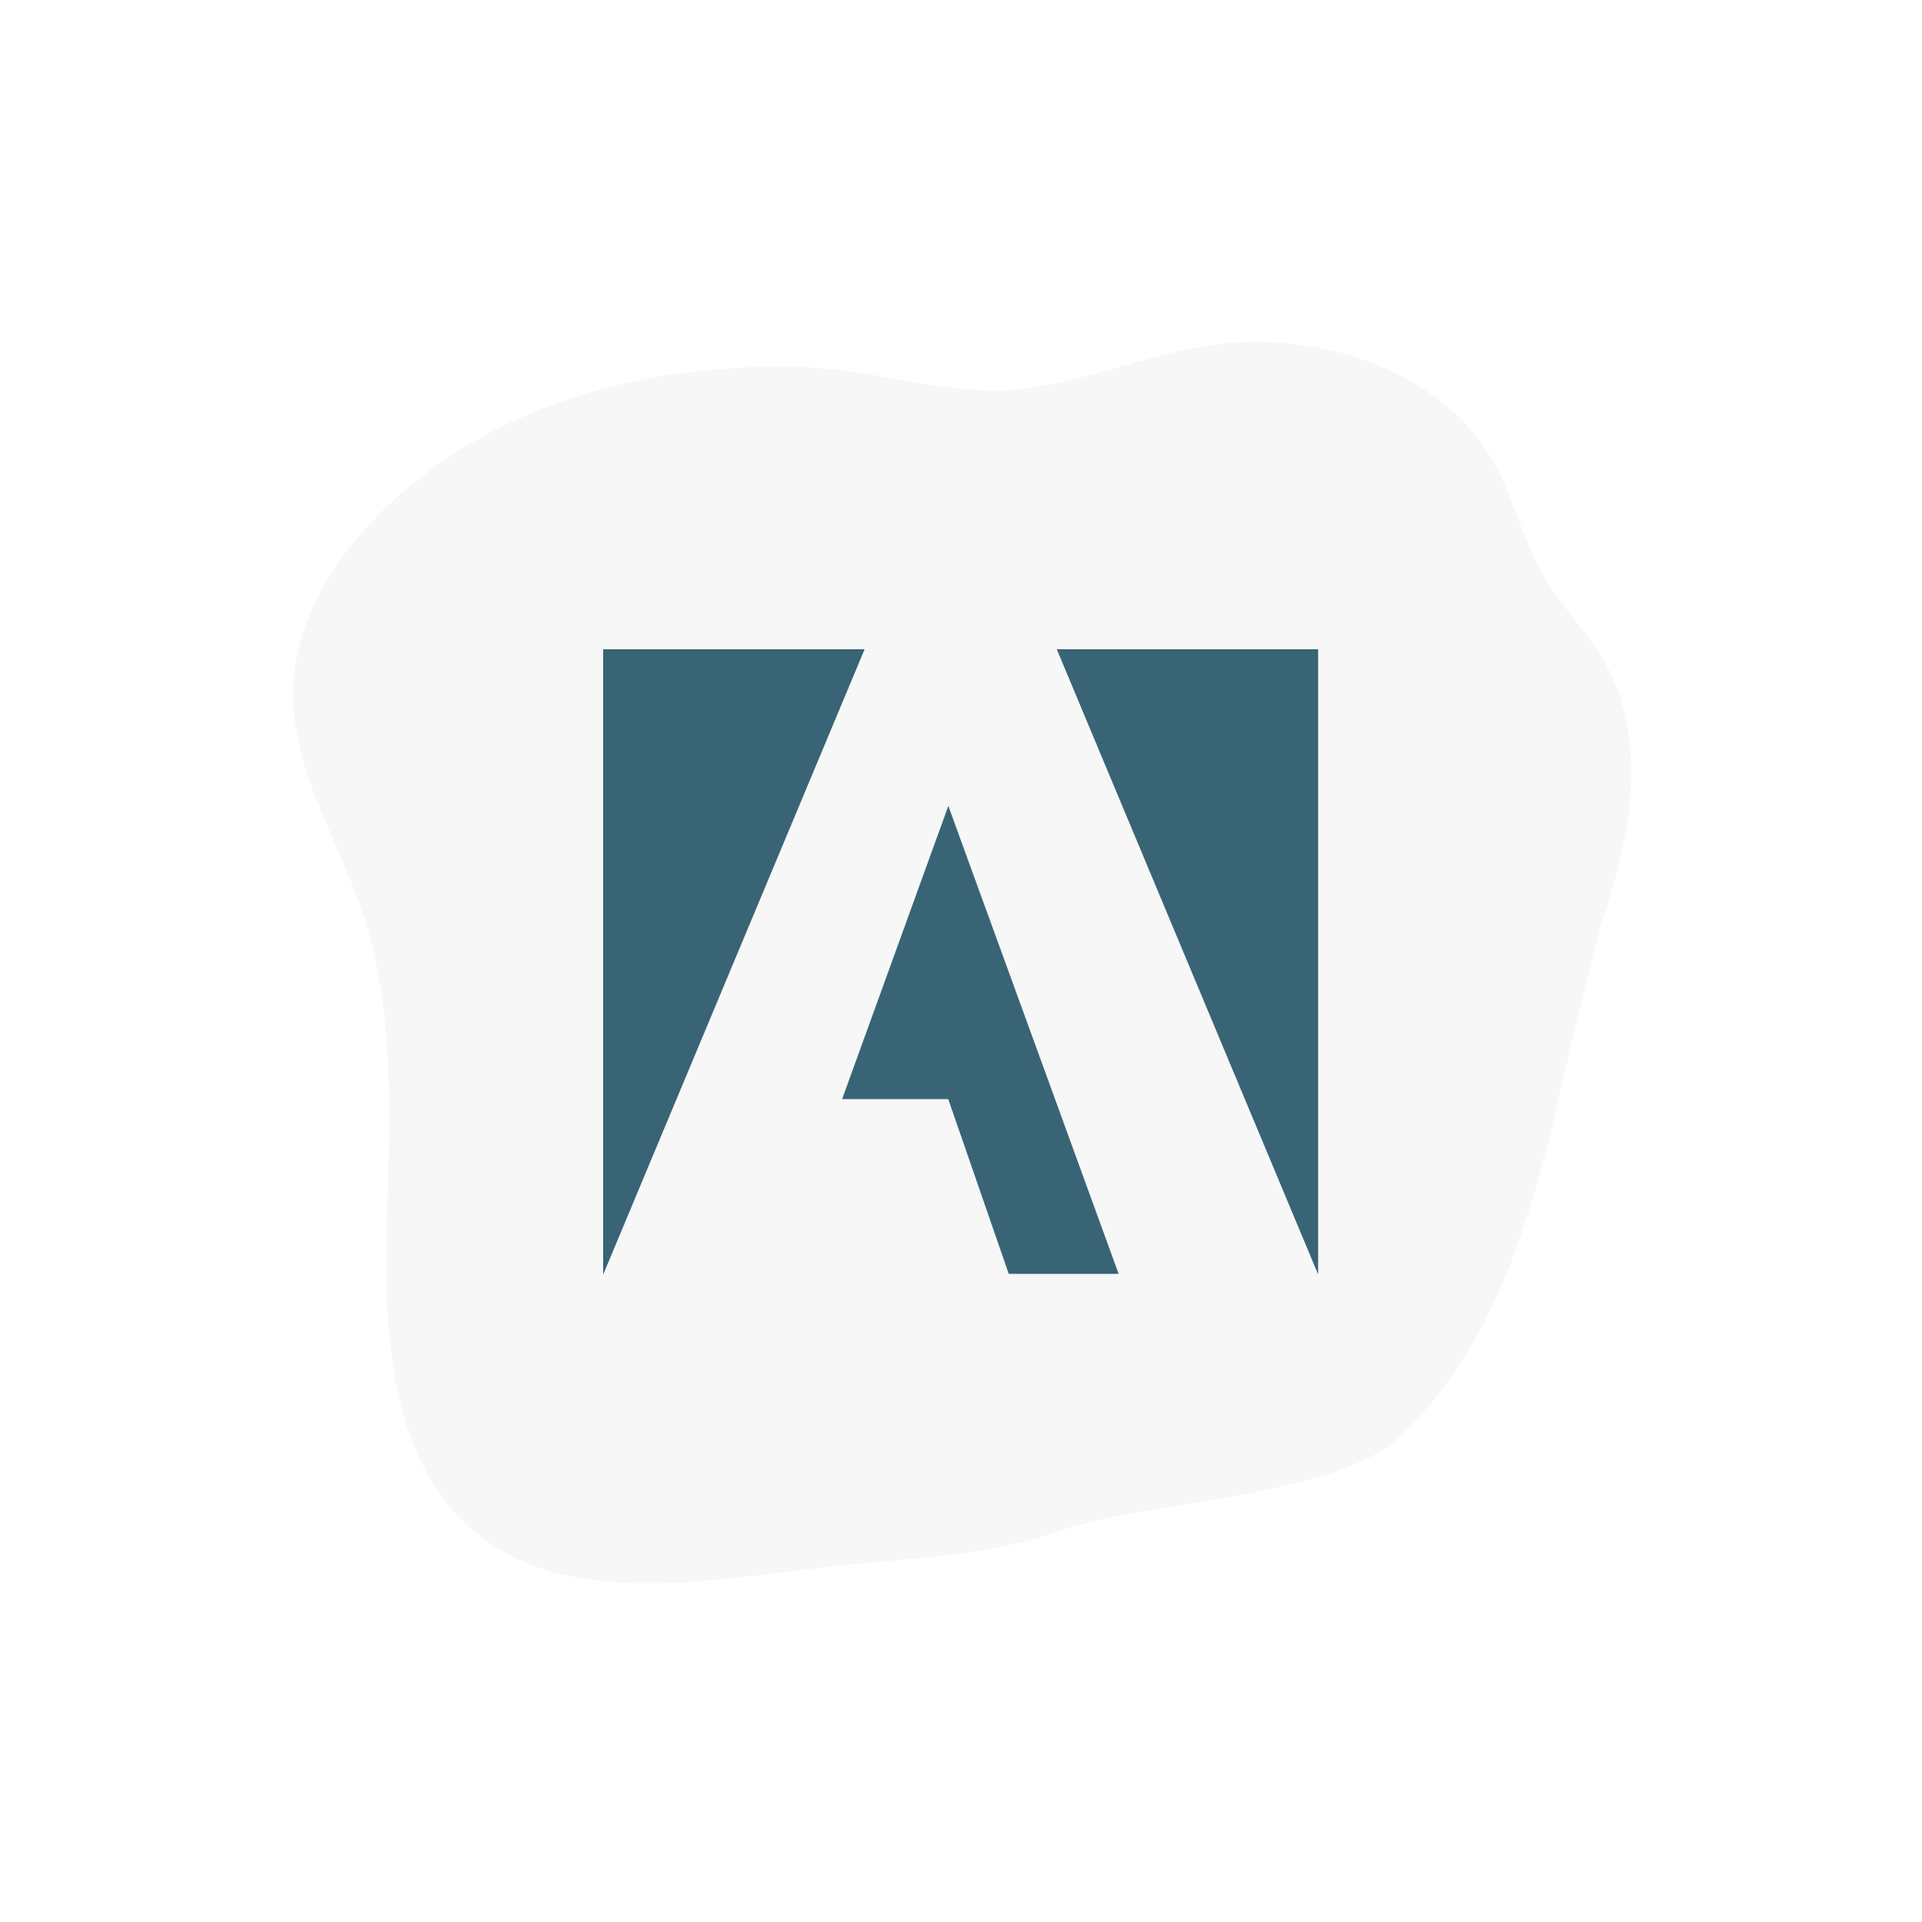
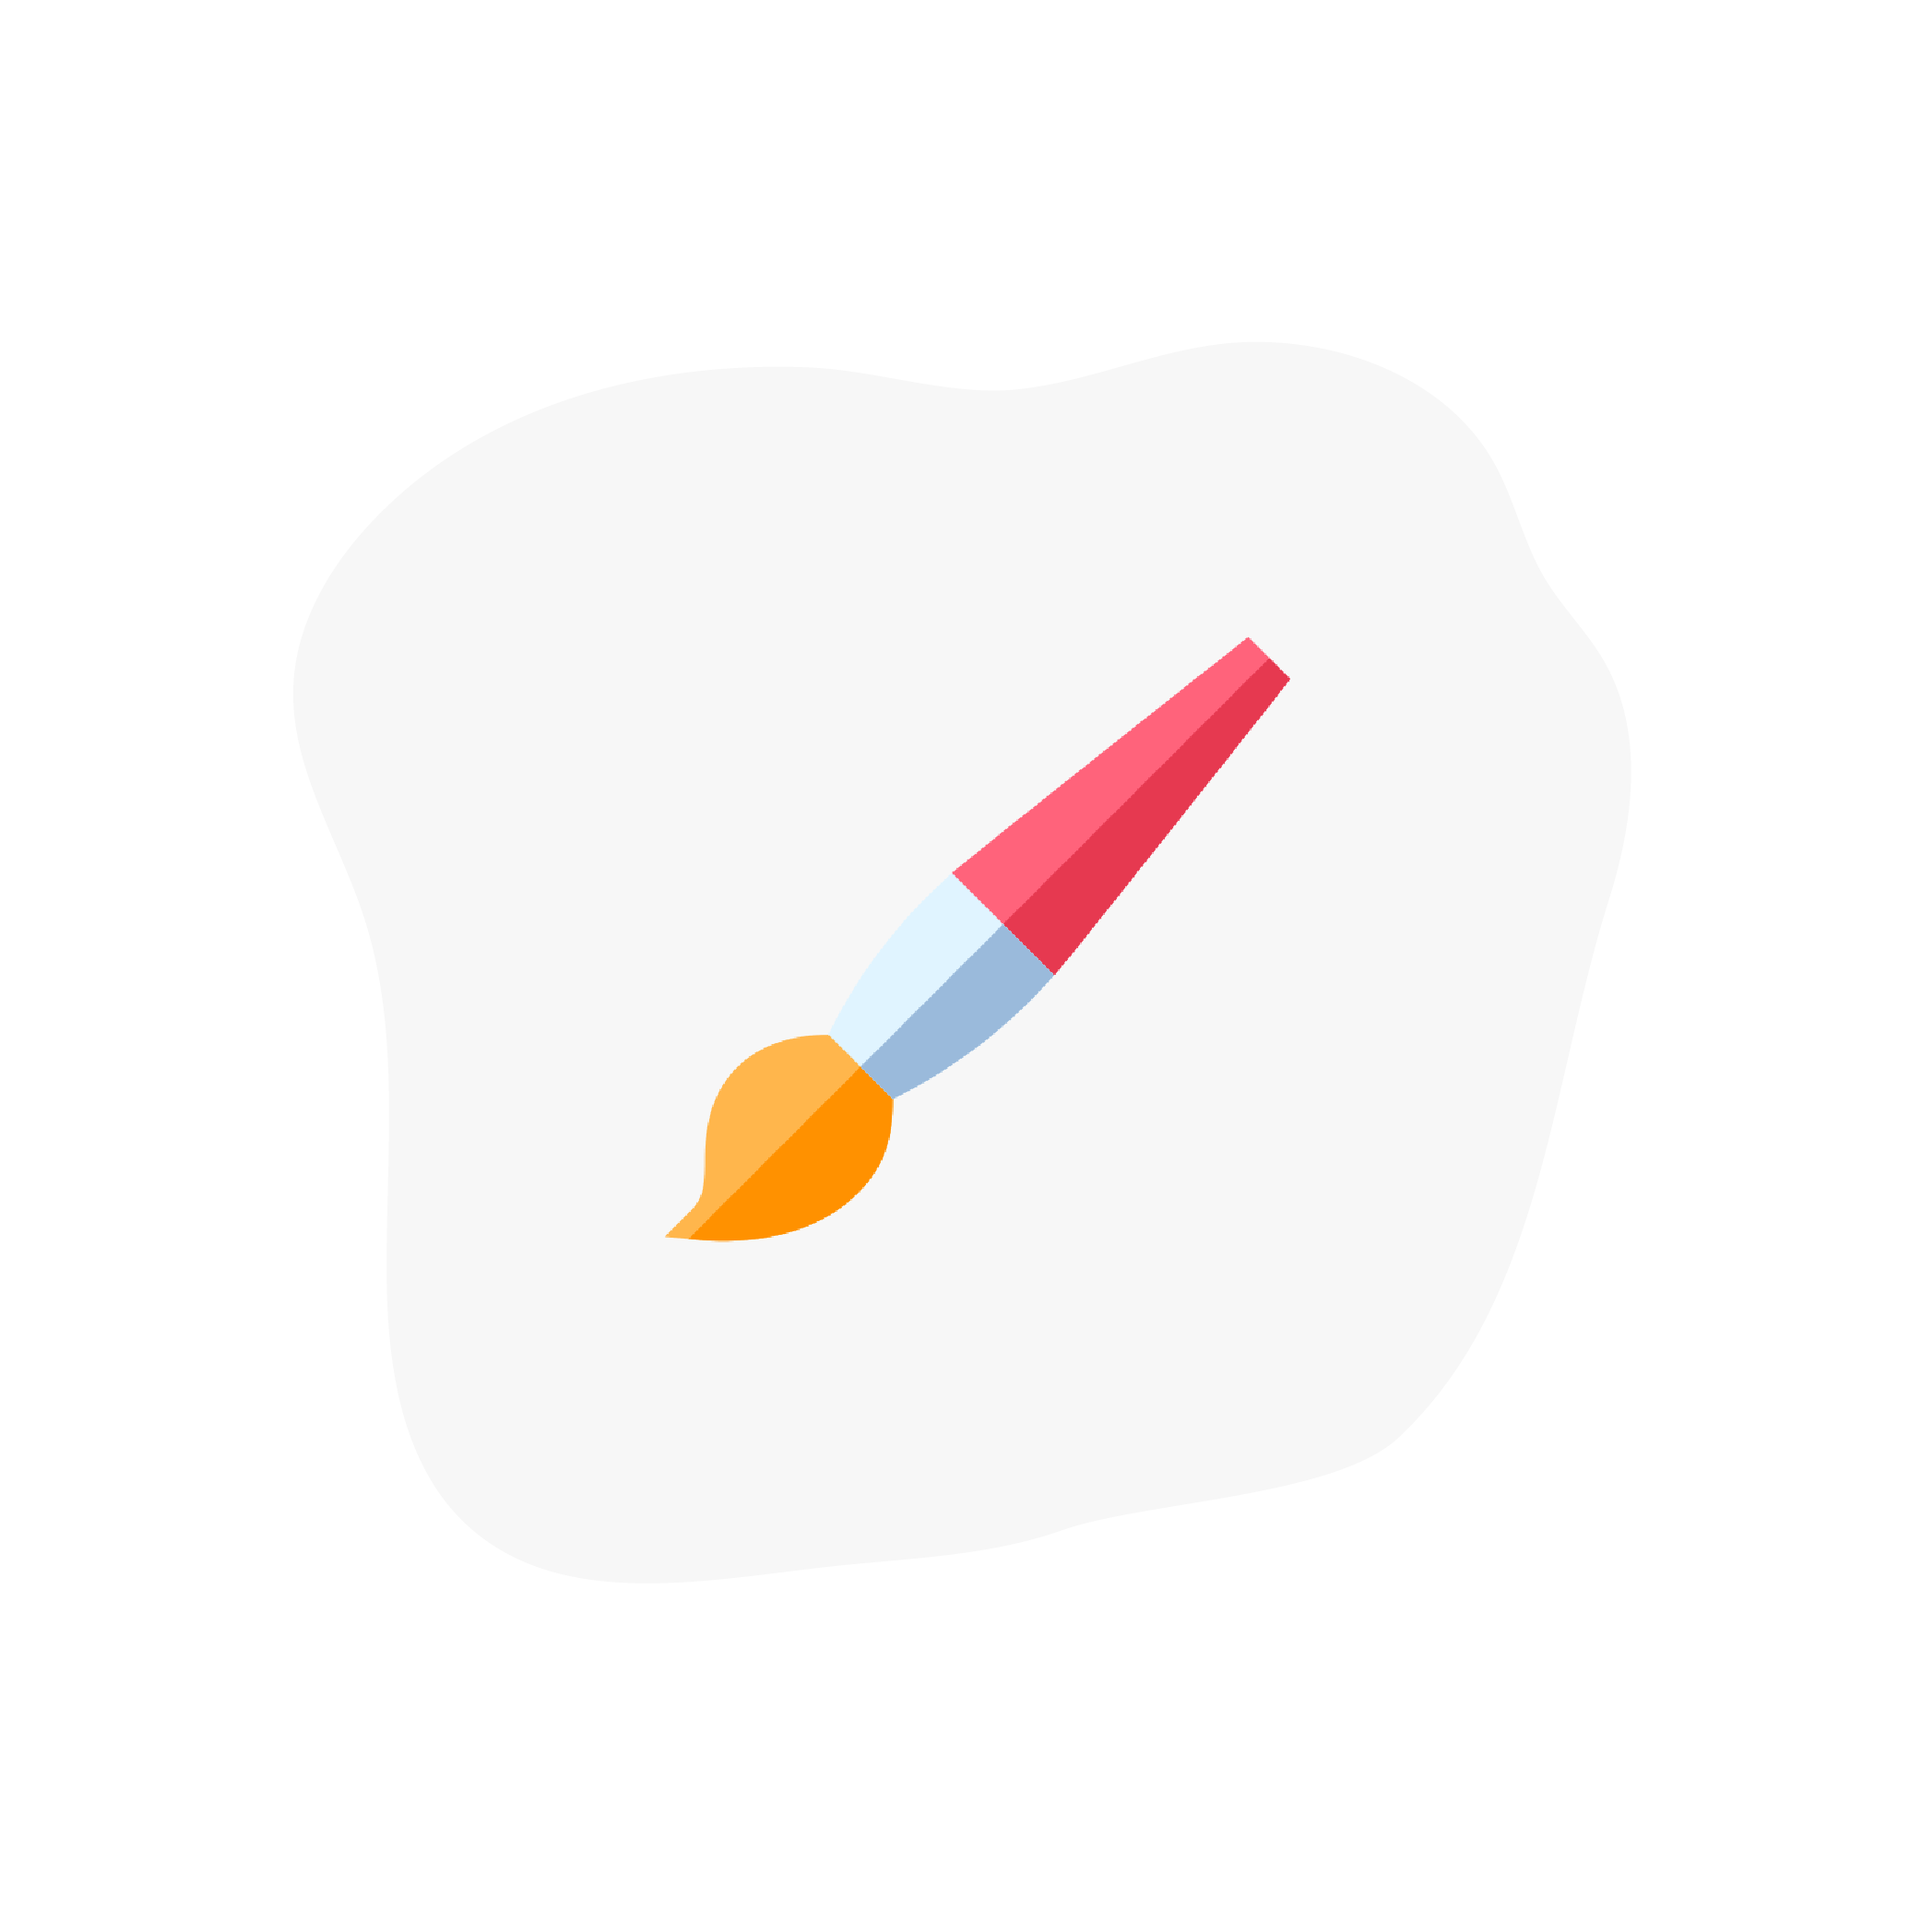
ggg

Changed region(s): [[0.3119, 0.3119, 0.6862, 0.6862]]

diff --git a/index.html b/index.html
@@ -42,15 +42,15 @@
         <div class="skillBoxes">
             <div class="1 skill reveal">
                 <img src="Images/Code-01.png" alt="Skill">
-                <h3>HTML/CSS/JS</h3>
+                <h3>HTML</h3>
             </div>
             <div class="2 skill reveal">
-                <img src="Images/Adobe-01.png" alt="Skill">
-                <H3>Adobe Tools</H3>
+                <img src="Images/Adobe-01.png" alt="Skill"> <!--//https://www.flaticon.com/free-icons/paintbrush-->
+                <H3>CSS</H3>
             </div>
             <div class="3 skill reveal">
-                <img src="Images/HeroImage-01.png" alt="Skill">
-                <h3>Bootstrap</h3>
+                <img src="Images/JS-01.png" alt="Skill"> <!--https://www.flaticon.com/free-icons/cog-->
+                <h3>JavaScript</h3>
             </div>
         </div>
         <div>
